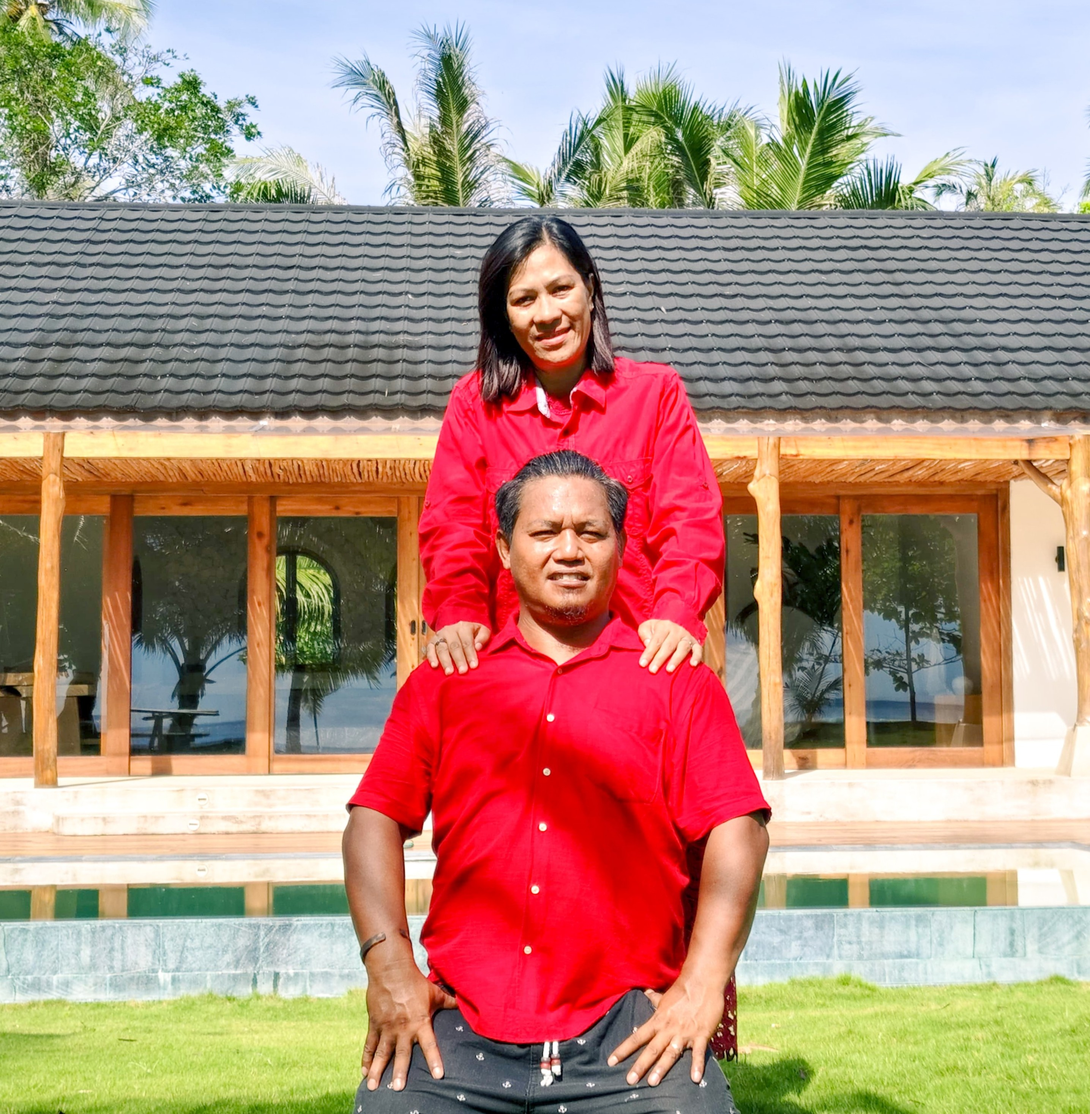
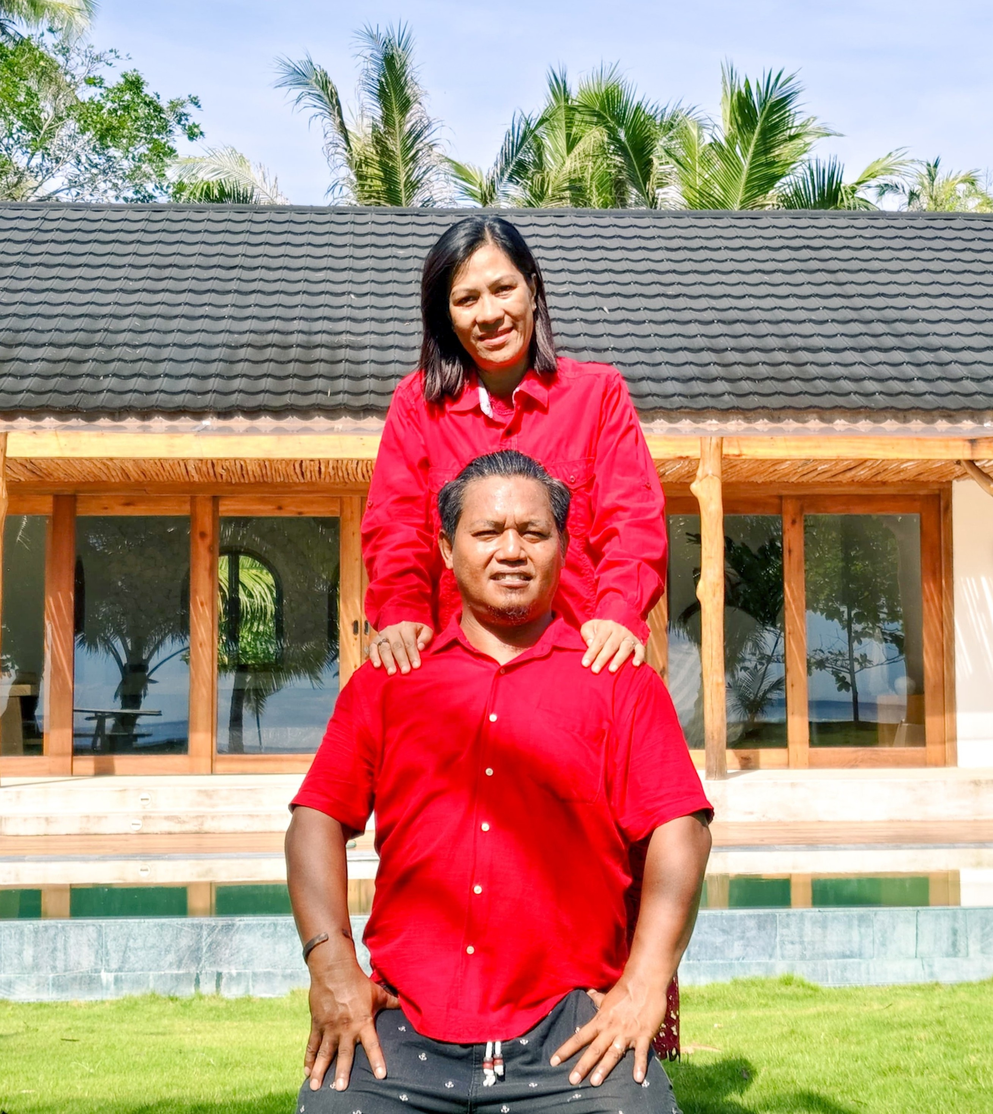
Fix family section parents name #2

diff --git a/src/app/styles/FamilySection.module.css b/src/app/styles/FamilySection.module.css
@@ -1,7 +1,7 @@
 /* FamilySection.module.css */
 .familySection {
   background-color: #C5A572;
-  background-image: linear-gradient(to bottom, rgba(180, 176, 170, 0.95), rgba(197, 165, 114, 0.95)),
+  background-image: linear-gradient(to bottom, rgba(197, 165, 114, 0.95), rgba(197, 165, 114, 0.95)),
                     url('/asset/floral-pattern.png');
   padding: clamp(3rem, 10vw, 6rem) 1rem;
   position: relative;
@@ -45,7 +45,7 @@
 
 .coupleImage {
   object-fit: cover;
-  object-position: center center; /* Changed from bottom to center */
+  object-position: center center;
   transition: transform 0.6s ease;
 }
 
@@ -78,9 +78,58 @@
 
 /* Parents Section */
 .parentsContainer {
+  display: flex;
+  flex-direction: column;
+  gap: 1.5rem;
+  background: rgba(255, 255, 255, 0.1);
+  backdrop-filter: blur(5px);
+  padding: 2rem;
+  border-radius: 1rem;
+}
+
+.parentLabels {
   display: grid;
   grid-template-columns: repeat(2, 1fr);
-  gap: 2rem;
+  gap: 1rem;
+  text-align: center;
+  font-family: 'Cormorant Garamond', serif;
+  font-size: 1.125rem;
+  color: rgba(255, 255, 255, 0.9);
+  font-style: italic;
+  margin-bottom: 0.5rem;
+}
+
+.parentRow {
+  display: grid;
+  grid-template-columns: repeat(2, 1fr);
+  gap: 1rem;
+  text-align: center;
+}
+
+.parentInfo {
+  padding: 1rem;
+}
+
+.parentInfo p {
+  font-family: 'Cormorant Garamond', serif;
+  font-size: 1.125rem;
+  color: #ffffff;
+  margin: 0;
+  line-height: 1.4;
+}
+
+.andSymbol {
+  font-size: 1rem;
+  color: rgba(255, 255, 255, 0.8);
+  font-style: italic;
+}
+
+.socialLinksContainer {
+  display: grid;
+  grid-template-columns: repeat(2, 1fr);
+  gap: 1rem;
+  margin-top: 1rem;
+  justify-items: center;
 }
 
 .separator {
@@ -107,42 +156,6 @@
   line-height: 1.6;
 }
 
-.parentInfo {
-  background: rgba(255, 255, 255, 0.1);
-  backdrop-filter: blur(5px);
-  padding: 2rem;
-  border-radius: 1rem;
-  text-align: center;
-}
-
-.label {
-  font-family: 'Cormorant Garamond', serif;
-  font-size: 1.125rem;
-  color: rgba(255, 255, 255, 0.9);
-  margin: 0 0 1rem 0;
-  font-style: italic;
-}
-
-.parents {
-  display: flex;
-  flex-direction: column;
-  gap: 0.5rem;
-  margin-bottom: 1.5rem;
-}
-
-.parents p {
-  font-family: 'Cormorant Garamond', serif;
-  font-size: 1.125rem;
-  color: #ffffff;
-  margin: 0;
-}
-
-.parents span {
-  font-size: 1rem;
-  color: rgba(255, 255, 255, 0.8);
-  font-style: italic;
-}
-
 .socialLink {
   color: #ffffff;
   opacity: 0.9;
@@ -162,11 +175,6 @@
 }
 
 @media (max-width: 768px) {
-  .parentsContainer {
-    grid-template-columns: 1fr;
-    gap: 2rem;
-  }
-
   .namesContainer {
     gap: 1rem;
   }
@@ -182,10 +190,26 @@
   .coupleImageContainer {
     margin-bottom: 3rem;
   }
+
+  .parentInfo {
+    padding: 0.75rem;
+  }
+
+  .parentInfo p {
+    font-size: 1rem;
+  }
 }
 
 @media (max-width: 480px) {
   .nickname {
     font-size: 1.5rem;
+  }
+
+  .parentLabels span {
+    font-size: 1rem;
+  }
+
+  .parentInfo p {
+    font-size: 0.9rem;
   }
 }

diff --git a/src/components/FamilySection.js b/src/components/FamilySection.js
@@ -74,16 +74,44 @@ const FamilySection = () => {
 
           {/* Parents Information Section */}
           <div className={styles.parentsContainer}>
-            {/* Groom's Parents */}
-            <div className={styles.parentInfo}>
-              <p className={styles.label}>
-                The Son of:
-              </p>
-              <div className={styles.parents}>
+            {/* Parents Labels */}
+            <div className={styles.parentLabels}>
+              <span>The Son of:</span>
+              <span>The Daughter of:</span>
+            </div>
+            
+            {/* Fathers */}
+            <div className={styles.parentRow}>
+              <div className={styles.parentInfo}>
                 <p>{coupleDetails.groom.parents.father}</p>
-                <span>&</span>
+              </div>
+              <div className={styles.parentInfo}>
+                <p>{coupleDetails.bride.parents.father}</p>
+              </div>
+            </div>
+
+            {/* Separator */}
+            <div className={styles.parentRow}>
+              <div className={styles.parentInfo}>
+                <span className={styles.andSymbol}>&</span>
+              </div>
+              <div className={styles.parentInfo}>
+                <span className={styles.andSymbol}>&</span>
+              </div>
+            </div>
+
+            {/* Mothers */}
+            <div className={styles.parentRow}>
+              <div className={styles.parentInfo}>
                 <p>{coupleDetails.groom.parents.mother}</p>
               </div>
+              <div className={styles.parentInfo}>
+                <p>{coupleDetails.bride.parents.mother}</p>
+              </div>
+            </div>
+
+            {/* Social Links */}
+            <div className={styles.socialLinksContainer}>
               <a 
                 href={`https://instagram.com/${coupleDetails.groom.instagram}`}
                 className={styles.socialLink}
@@ -92,18 +120,6 @@ const FamilySection = () => {
               >
                 <Instagram size={16} />
               </a>
-            </div>
-
-            {/* Bride's Parents */}
-            <div className={styles.parentInfo}>
-              <p className={styles.label}>
-                The Daughter of:
-              </p>
-              <div className={styles.parents}>
-                <p>{coupleDetails.bride.parents.father}</p>
-                <span>&</span>
-                <p>{coupleDetails.bride.parents.mother}</p>
-              </div>
               <a 
                 href={`https://instagram.com/${coupleDetails.bride.instagram}`}
                 className={styles.socialLink}
